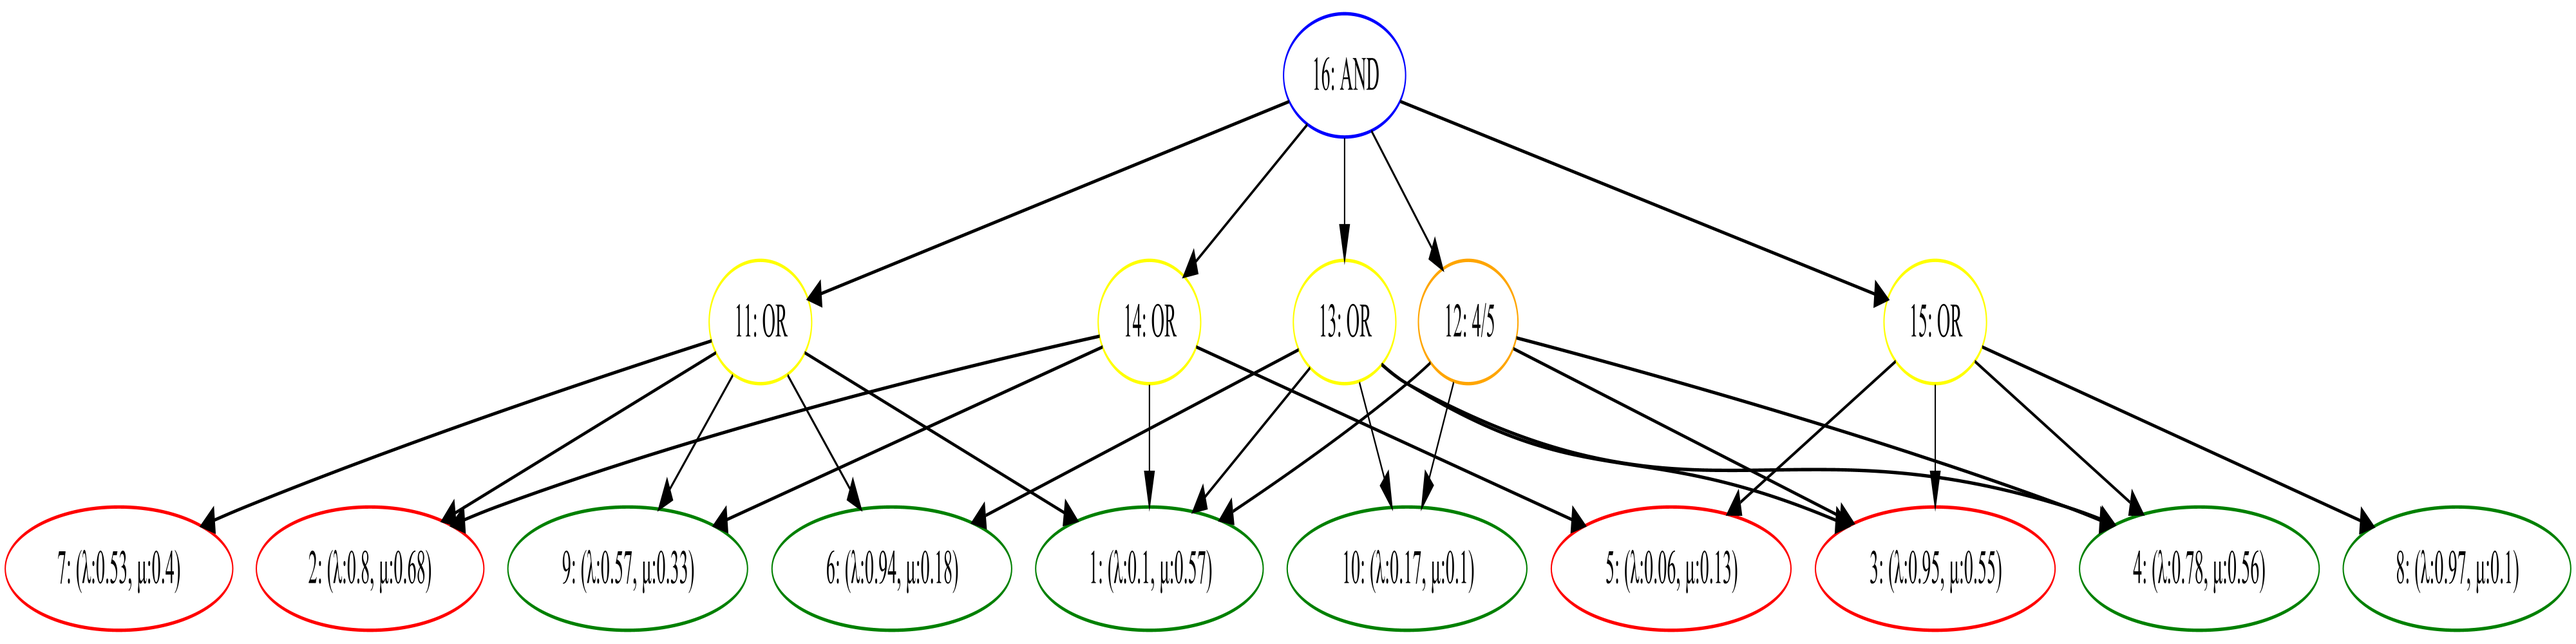
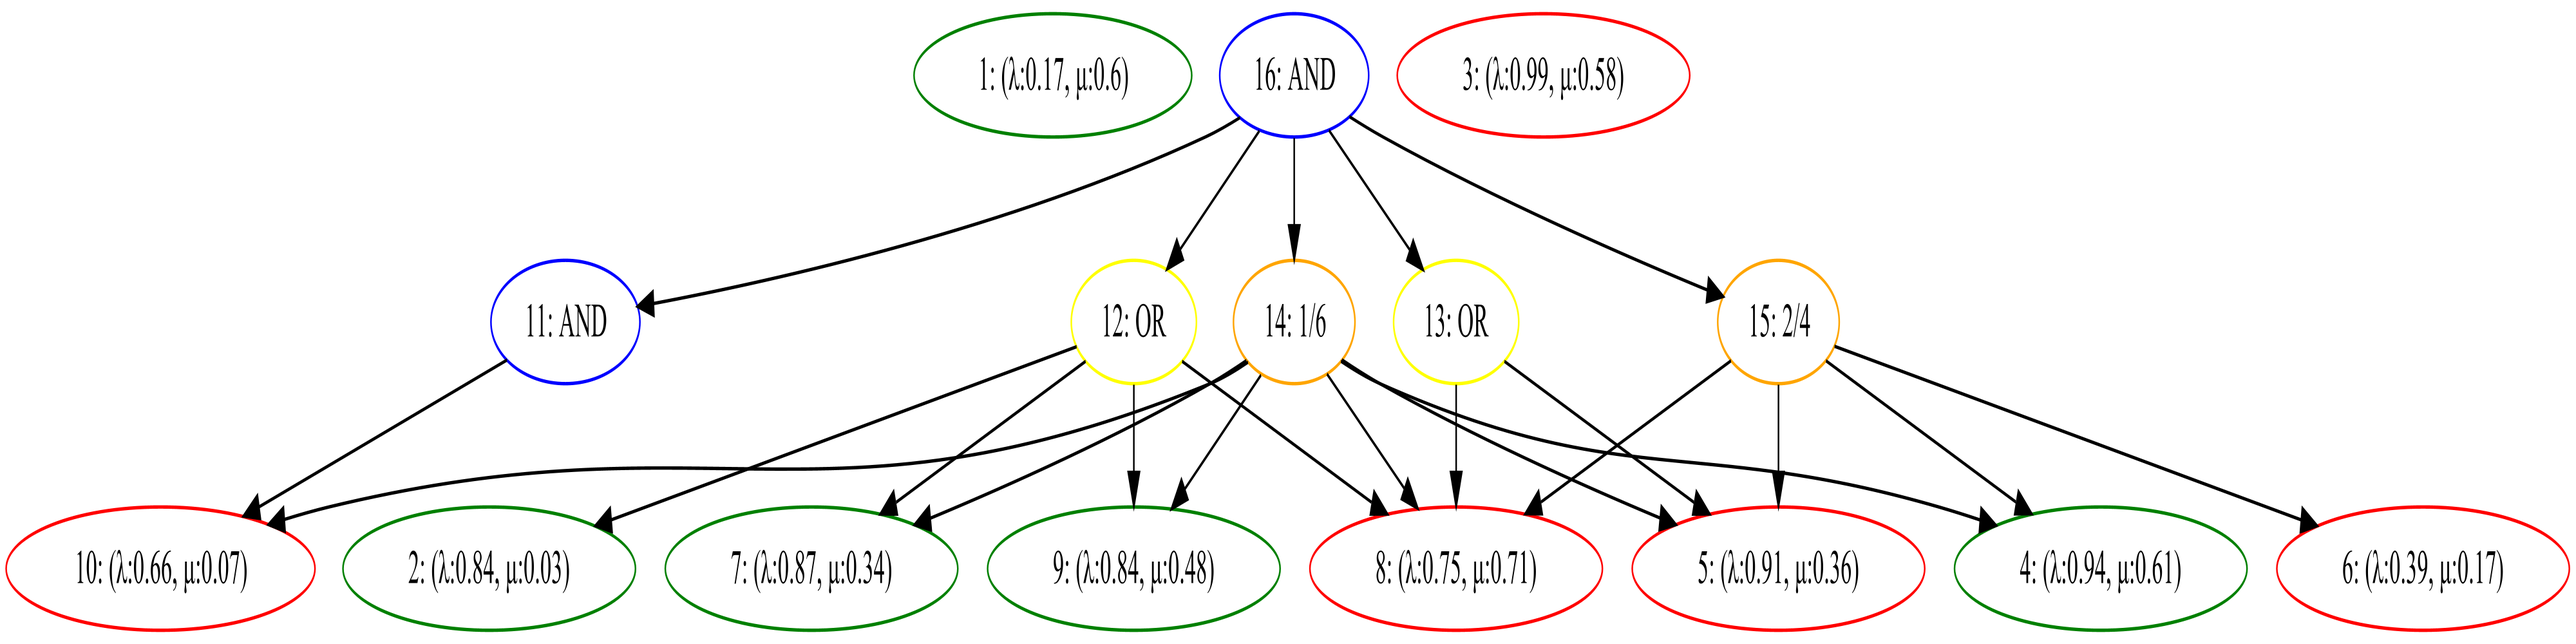
TODO migliorare generazione casuale

diff --git a/src/main/java/src/swe/smft/program/Main.java b/src/main/java/src/swe/smft/program/Main.java
@@ -62,7 +62,7 @@ public class Main {
             sim = new Simulator(maxTime, C, tm);
         } else {
             List<Event> topChildren = new ArrayList<>();
-            // TODO: i basicEvent che non sono stati scelti come figli degli intermediate 7
+            // TODO: i basicEvent che non sono stati scelti come figli degli intermediate
             //  dovrebbero almeno esserlo per il top event, ma non funziona
             boolean[] choosenBasic = new boolean[nBasic];
 
@@ -74,7 +74,7 @@ public class Main {
 
             for (int j = 0; j < nBasic / 2; j++) {
                 List<Event> children = new ArrayList<>();
-                for (int k = 0; k < nBasic / 2; k++) {
+                for (int k = 0; k < (int) (Math.random() * nBasic + 1); k++) {
                     int choose = (int) (Math.random() * nBasic);
                     children.add(tm.getBasicEvents().get(choose));
                     choosenBasic[choose] = true;
@@ -85,8 +85,9 @@ public class Main {
             }
 
             for (int i = 0; i < nBasic; i++) {
-                if (choosenBasic[i] = false)
-                    topChildren.add(tm.getBasicEvents().get(i));
+                if (choosenBasic[i] = false) {
+                    Event e = tm.getBasicEvents().get(i);
+                }
             }
             // dato che con topEvent != da AND la simulazione non risulta interessante
             //Event topEvent = modeler.createRandomIntermediateEvent(topChildren);

diff --git a/src/main/java/src/swe/smft/event/EventModeler.java b/src/main/java/src/swe/smft/event/EventModeler.java
@@ -65,7 +65,7 @@ public class EventModeler {
         }
         /* (opz == 'K') */
         else {
-            int k = (int) (Math.random() * children.size());
+            int k = (int) (Math.random() * children.size() + 1);
             i = new KNGate(children, k, String.valueOf(k), ++count);
         }
         GraphBuilder.addNodeAndEdges(i);
